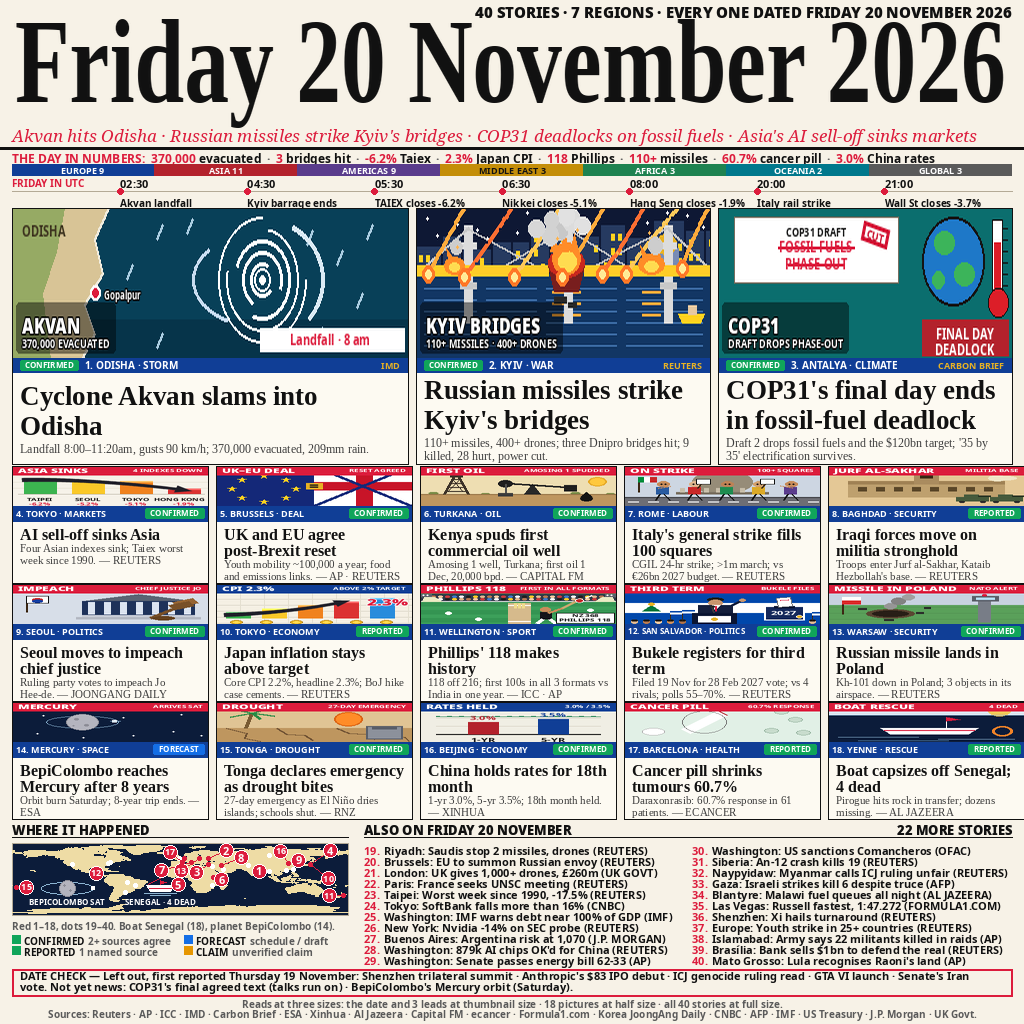
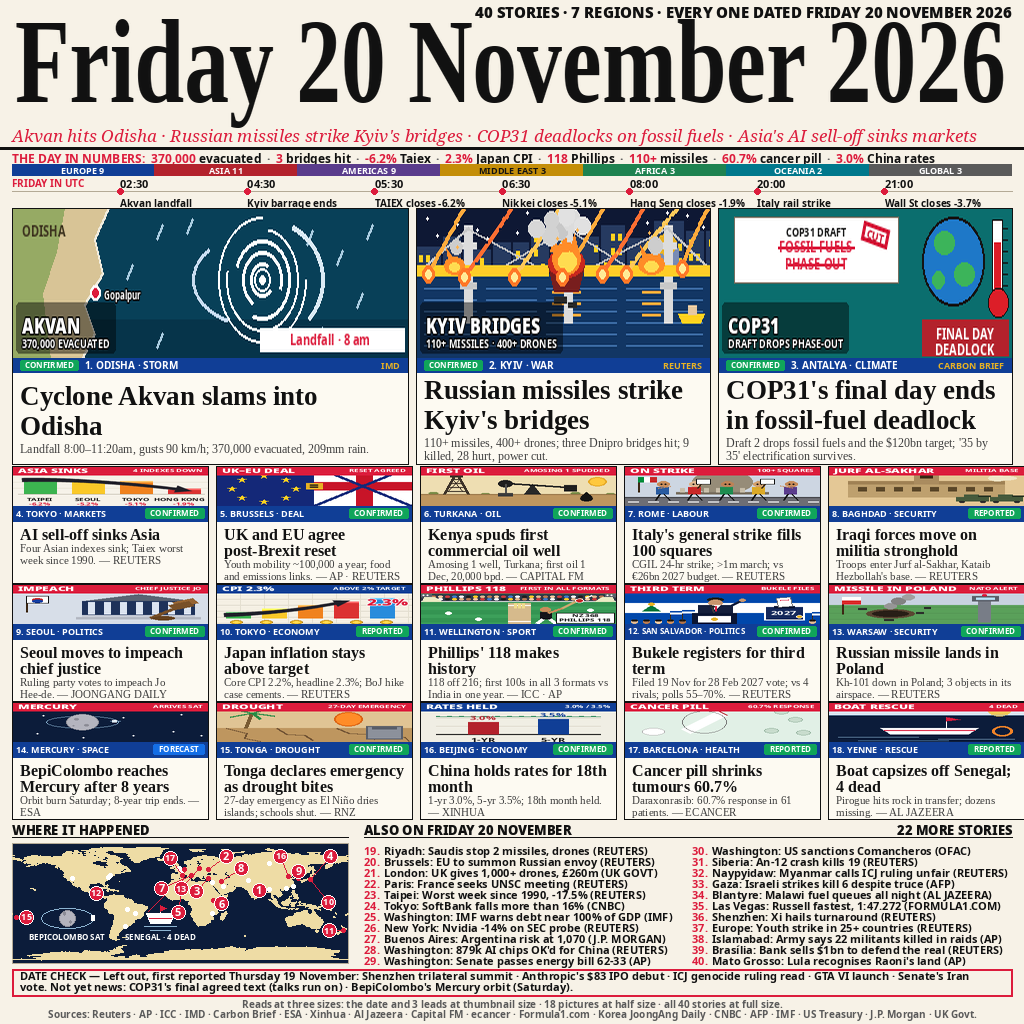
v23: map 72→120px, legend+caption dropped — 0 net section growth

Changed region(s): [[0.0, 0.8125, 0.3438, 0.9688]]

diff --git a/draw.py b/draw.py
@@ -1274,10 +1274,24 @@ def art_image(key, w, h):
 # recomputed from PINS + PIN_OFF below (numeric check, not summary
 # arithmetic): ZERO pin-pin collisions <14px, ZERO pin-dot touches
 # <9px, every circle inside the box.
-PIN_OFF = {2: (18, -8), 3: (-12, 8), 4: (20, -14), 5: (-6, 26),
-           6: (8, 2), 7: (-30, 8), 8: (20, -8), 9: (0, -4), 10: (18, 14),
-           11: (-14, 0), 13: (-18, 12),
-           15: (10, 0), 16: (-8, -12), 17: (-12, -10)}
+# v23: map is 120px tall (was 72) — the latitude spread opens the
+# Europe cluster up again, so the north/south fan offsets grow back by
+# x120/72 (dy only; the longitude scale is unchanged, so dx stays).
+# 2 (18,-8)->(18,-13), 3 (-12,8)->(-12,13), 4 (20,-14)->(20,-23),
+# 5 (-6,26)->(-6,43), 6 (8,2)->(8,3), 7 (-30,8)->(-30,13),
+# 8 (20,-8)->(20,-13), 9 (0,-4)->(0,-7), 10 (18,14)->(18,23),
+# 13 (-18,12)->(-18,20), 16 (-8,-12)->(-8,-20), 17 (-12,-10)->(-12,-17).
+# 11/15 dx-only offsets unchanged. Boat + Mercury callout y-offsets
+# scale x120/72 the same way (v19 precedent x72/92). Numeric check
+# (recomputed from PINS + PIN_OFF, /tmp/check_map_v23.py): ZERO pin-pin
+# collisions <14px (min 15.4, pins 3-13), ZERO pin-dot touches <9px
+# (min 10.5, pin 1-dot 32), every circle inside the box, boat/Mercury
+# zones clear of dots/pins, Mercury label 8px clear of the Antarctica
+# coast, boat label 4.9px clear of dot 27.
+PIN_OFF = {2: (18, -13), 3: (-12, 13), 4: (20, -23), 5: (-6, 43),
+           6: (8, 3), 7: (-30, 13), 8: (20, -13), 9: (0, -7), 10: (18, 23),
+           11: (-14, 0), 13: (-18, 20),
+           15: (10, 0), 16: (-8, -20), 17: (-12, -17)}
 
 
 def draw_map(d, x0, y0, mw, mh):
@@ -1333,27 +1347,25 @@ def draw_map(d, x0, y0, mw, mh):
     # v15: boat coordinates now relative to the map box (x0, y0) — the
     # map moved down with the reflow, so the v14 absolute pixels no
     # longer apply. Offsets are the v14 values minus (12, 793).
-    # v19: map is 72px tall now (was 92) — every callout y-offset is the
-    # v18 value x72/92, and the Mercury callout shifts 3px further up so
-    # its label keeps 3px clear of the Antarctica coast (which rises to
-    # ~y0+66 at this height). Boat label keeps 4px+ clear of dot 27.
+    # v23: map is 120px tall now (was 72) — every callout y-offset is the
+    # v19 value x120/72 (boat label keeps 4.9px clear of dot 27).
     _sx, _sy = project(-17.2, 14.7)  # Yenne / Dakar (dot 34 until v18)
     d.ellipse([_sx - 2, _sy - 2, _sx + 2, _sy + 2], fill=RED)
-    d.line([(_sx, _sy + 3), (x0 + 136, y0 + 41)], fill=RED, width=1)
-    d.line([(x0 + 148, y0 + 37), (x0 + 148, y0 + 42)], fill="white",
+    d.line([(_sx, _sy + 3), (x0 + 136, y0 + 68)], fill=RED, width=1)
+    d.line([(x0 + 148, y0 + 62), (x0 + 148, y0 + 70)], fill="white",
            width=1)  # mast
-    d.polygon([(x0 + 148, y0 + 37), (x0 + 148, y0 + 41),
-               (x0 + 154, y0 + 39)], fill=RED)  # flag
-    d.polygon([(x0 + 134, y0 + 42), (x0 + 162, y0 + 42),
-               (x0 + 158, y0 + 48), (x0 + 138, y0 + 48)],
+    d.polygon([(x0 + 148, y0 + 62), (x0 + 148, y0 + 68),
+               (x0 + 154, y0 + 65)], fill=RED)  # flag
+    d.polygon([(x0 + 134, y0 + 70), (x0 + 162, y0 + 70),
+               (x0 + 158, y0 + 80), (x0 + 138, y0 + 80)],
               fill="white")  # pirogue hull
-    d.line([(x0 + 137, y0 + 45), (x0 + 159, y0 + 45)], fill=RED,
+    d.line([(x0 + 137, y0 + 75), (x0 + 159, y0 + 75)], fill=RED,
            width=1)  # hull stripe
-    d.line([(x0 + 132, y0 + 50), (x0 + 164, y0 + 50)],
+    d.line([(x0 + 132, y0 + 83), (x0 + 164, y0 + 83)],
            fill=(140, 180, 210), width=1)
-    d.line([(x0 + 138, y0 + 52), (x0 + 158, y0 + 52)],
+    d.line([(x0 + 138, y0 + 87), (x0 + 158, y0 + 87)],
            fill=(140, 180, 210), width=1)
-    d.text((x0 + 148, y0 + 53), "SENEGAL · 4 DEAD", font=F_LABEL,
+    d.text((x0 + 148, y0 + 88), "SENEGAL · 4 DEAD", font=F_LABEL,
            fill="white", anchor="ma")
     # v16: BepiColombo Mercury callout — the 20th drawn element (18 cards
     # + Senegal boat + Mercury). Space audit (2026-11-21, measured): the
@@ -1372,14 +1384,21 @@ def draw_map(d, x0, y0, mw, mh):
     # (ESA); v17 promotes it to drawn card 14, so the also-list line is
     # gone and the callout is the card's map marker. Original PIL
     # vector code only.
-    d.ellipse([x0 + 29, y0 + 39, x0 + 81, y0 + 51], outline=(140, 180, 210),
+    # v23: Mercury callout y-offsets x120/72 (planet centre y0+45 ->
+    # y0+75, label y0+53 -> y0+88, ink to ~y0+96, 8px clear of the
+    # Antarctica coast which rises to ~y0+104 at this height). The planet
+    # itself stays a 16px CIRCLE centred on the rescaled centre — scaling
+    # its bbox x120/72 would stretch it into an egg (caught on the 4x
+    # view); the orbit ellipse keeps the scaled height (an ellipse may
+    # stretch, a planet may not).
+    d.ellipse([x0 + 29, y0 + 65, x0 + 81, y0 + 85], outline=(140, 180, 210),
               width=1)  # orbit
-    d.ellipse([x0 + 47, y0 + 37, x0 + 63, y0 + 53], fill=(180, 180, 190),
+    d.ellipse([x0 + 47, y0 + 67, x0 + 63, y0 + 83], fill=(180, 180, 190),
               outline=(140, 140, 150), width=1)  # Mercury
-    d.ellipse([x0 + 51, y0 + 41, x0 + 53, y0 + 43], fill=(140, 140, 150))
-    d.ellipse([x0 + 57, y0 + 46, x0 + 59, y0 + 48], fill=(140, 140, 150))
-    d.rectangle([x0 + 79, y0 + 43, x0 + 82, y0 + 46], fill="white")  # craft
-    d.text((x0 + 55, y0 + 53), "BEPICOLOMBO SAT", font=F_LABEL,
+    d.ellipse([x0 + 51, y0 + 68, x0 + 53, y0 + 72], fill=(140, 140, 150))
+    d.ellipse([x0 + 57, y0 + 77, x0 + 59, y0 + 80], fill=(140, 140, 150))
+    d.rectangle([x0 + 79, y0 + 72, x0 + 82, y0 + 77], fill="white")  # craft
+    d.text((x0 + 55, y0 + 88), "BEPICOLOMBO SAT", font=F_LABEL,
            fill="white", anchor="ma")
     for n, (lon, lat) in PINS.items():
         px, py = project(lon, lat)
@@ -1652,35 +1671,19 @@ def main():
             k = 3 + r * 5 + c
             small_card(img, d, FRONT[k], 12 + c * 204, 466 + r * 118)
 
-    # ---- map + also 821-967 (v20: moved +4 with the reflow; v19: map 72 tall, also-list 22 items in
-    # 11 rows at pitch 11; legend header dropped — the 4 swatch rows
-    # stay, directly under the caption) ----
+    # ---- map + also 821-967 (v23: map 120 tall, funded by dropping the
+    # caption + the 4-row legend — the map box grows 843-915 -> 843-963,
+    # section end stays 964; also-list 22 items in 11 rows at pitch 11) ----
     map_y = 821
     d.text((12, map_y), "WHERE IT HAPPENED", font=F_SEC, fill=INK)
     d.line([12, map_y + 16, 348, map_y + 16], fill=INK, width=1)
-    d.rectangle([12, map_y + 22, 348, map_y + 94], fill=NAVY_DARK,
+    d.rectangle([12, map_y + 22, 348, map_y + 142], fill=NAVY_DARK,
                 outline=RULE, width=1)
-    draw_map(d, 12, map_y + 22, 336, 72)
-    # v15: caption names the boat callout (320.2px in the 336px column,
-    # probe-measured at F_TTEXT); numbers renumbered for the 44-story
-    # page (BepiColombo 32, Senegal boat 35).
-    d.text((12, map_y + 98), "Red 1–18, dots 19–40. Boat Senegal (18), planet BepiColombo (14).",
-           font=F_TTEXT, fill=GREY)
-    # how-sure-are-we legend under the map, 2x2 (v19: the header is
-    # dropped to fund the heroes — the 4 swatch rows keep every tag
-    # explained in 22px; explanations probe-measured to fit the 168px
-    # columns).
-    _leg = [("CONFIRMED", "2+ sources agree", 0, 0),
-            ("FORECAST", "schedule / draft", 1, 0),
-            ("REPORTED", "1 named source", 0, 1),
-            ("CLAIM", "unverified claim", 1, 1)]
-    for _st, _expl, _col, _row in _leg:
-        _lx = 12 if _col == 0 else 184
-        _ly = map_y + 114 + _row * 11
-        d.rectangle([_lx, _ly, _lx + 8, _ly + 8], fill=PILL_COL[_st])
-        d.text((_lx + 12, _ly - 1), _st, font=F_LEGEND, fill=INK)
-        _ex = _lx + 12 + int(d.textlength(_st, font=F_LEGEND)) + 4
-        d.text((_ex, _ly - 1), _expl, font=F_LEGEND, fill=GREY)
+    draw_map(d, 12, map_y + 22, 336, 120)
+    # v23: the map caption ("Red 1–18, dots 19–40...") and the 4-row
+    # how-sure-are-we legend are DELETED — they fund the 72->120px map
+    # growth (Attack 1, round-4 analysis). The pill tags are still
+    # explained by the pill colours on the cards themselves.
 
     also_x = 364
     d.text((also_x, map_y), "ALSO ON FRIDAY 20 NOVEMBER", font=F_SEC, fill=INK)
